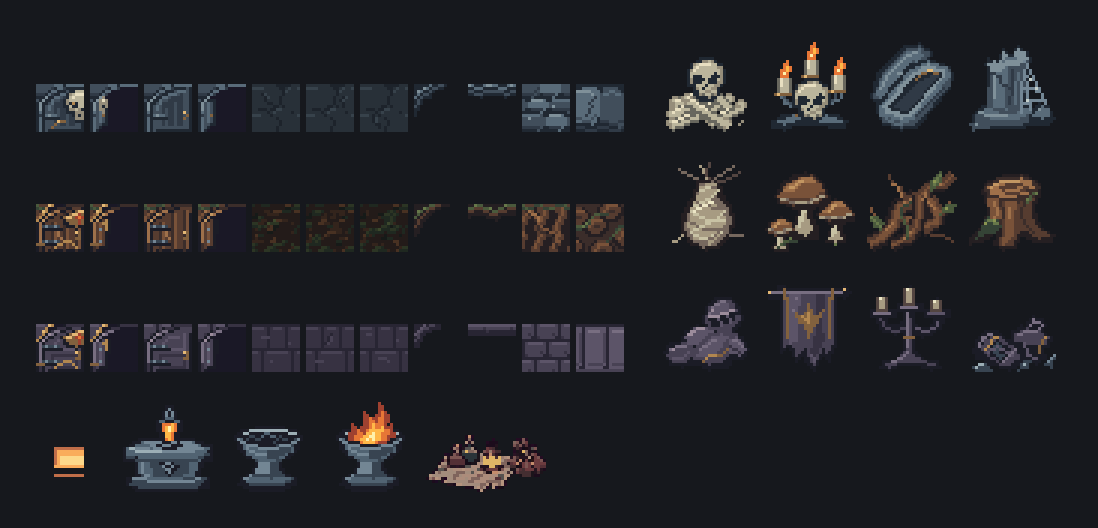
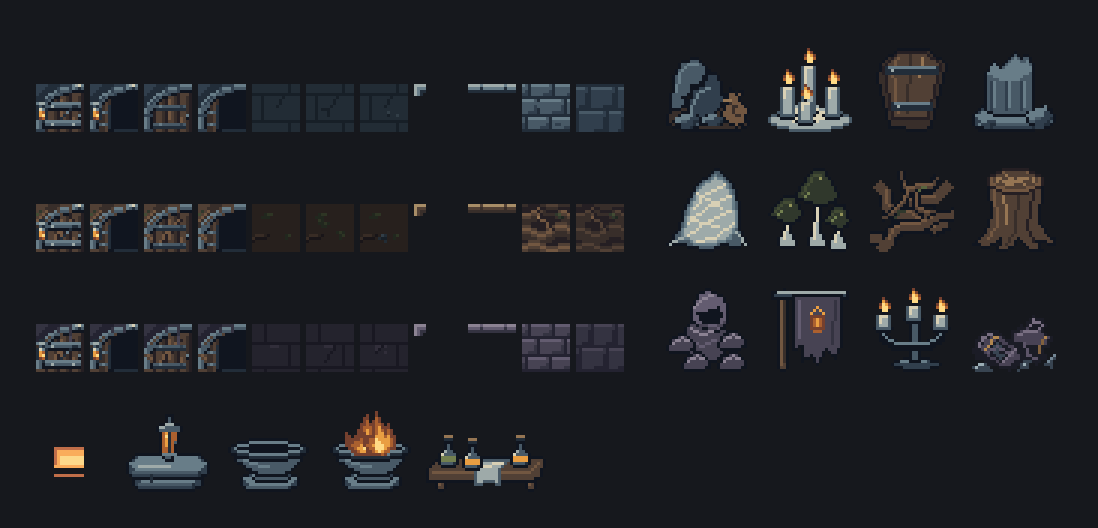
content: 등불지기 개발 7일차 글, 표지·등장인물·에셋 모음을 새 그림으로

diff --git a/src/posts/devlog-day7.md b/src/posts/devlog-day7.md
@@ -1,0 +1,48 @@
+---
+title: "등불지기 개발 7일차 — 그림 전체를 한 그림체로"
+description: 기술 이름을 세계관에 맞게, 게임 그림 전체 다시 만들기, 기술 정리, 치명타를 강화로
+date: 2026-11-24
+---
+
+[6일차](/blog/devlog-day6/)에 기술이 서른 개까지 늘었고, 7일차에는 이름과 그림을 세계관에 맞게 다시 정리했어요. 게임에 나오는 그림을 거의 전부 새로 바꿨어요.
+
+## 1. 기술 이름을 세계관에 맞게
+
+신, 뼈, 처형, 판타지 마법 같은 낱말이 세계관 규칙과 부딪혀서 이름을 바꿨어요. 효과는 그대로예요.
+
+- 액티브 종류: 물리 · 마법 · 지원 → **연장 · 불 · 지킴**
+- 번개 지팡이 → 길잡이 빛, 뼈 부메랑 → 굽은 갈고리, 별똥 → 풍등, 순간이동 → 빛 건너기, 기도 → 묵념
+- 뼈 창 → 상여 장대, 처형 → 관목수 도끼, 서리 등잔 → 푸른 등잔, 저주 낙인 → 그을음 표식, 금빛 가호 → 요령
+- 사슬 → 하관 사슬, 도깨비불 → 따르는 불씨
+- 패시브: 영혼 흡수 → 빌린 온기, 보스 사냥꾼 → 늦은 장례
+
+## 2. 그림 전체를 한 그림체로
+
+그동안 여러 번에 나눠 만든 그림이라 모양이 조금씩 달랐는데, 한 기준에 맞춰 다시 뽑았어요.
+
+- 기술 · 패시브 아이콘, 강화 · 마을 · 줍는 물건 아이콘을 32×32 시트로 다시
+- 투사체 · 기술 효과 · 적 공격 그림 154장을 바뀐 기술 이름대로 다시 그림
+- 주인공 · 적 11종 · 보스 3: 주인공과 꺼진 등불지기, 3구역 보스의 후드를 같은 보라색으로
+- 던전 · 마을 타일과 소품, 화면 UI 틀, 타이틀 그림
+- 마을 아이콘 줄의 버튼 틀을 빼서 톱니바퀴와 모양을 맞춤
+
+![주인공과 적, 보스 (새 그림)](/games/lanternkeeper/art/gallery_characters.webp)
+
+![기술 · 강화 · 마을 아이콘 (새 그림)](/games/lanternkeeper/art/gallery_items.webp)
+
+## 3. 기술 정리
+
+- **붉은 실**은 지웠어요
+- **유령 까마귀**는 **길 밝힘**으로: 등불이 번쩍여 벽 너머까지 밝히고, 그 안의 길을 미니맵에 그리고 적을 잠깐 드러내요
+- 등불 결계는 이름을 **빛 울타리**로
+- 6일차에 미뤄 둔 해골 소환과 미끼 허수아비는 세계관에 맞지 않아 기획에서 지웠어요
+- 그래서 액티브는 27종, 기본 공격까지 기술 29종이에요. 저장된 빌드에 없어진 기술이 있으면 그 칸은 비어요
+
+## 4. 치명타 확률을 강화로
+
+- 치명타 확률은 패시브에서 빼고, 제단 강화의 열 번째 항목으로 옮겼어요. 단계마다 조금씩 올라가요
+- 패시브는 8종이 됐고, 새로 시작하면 기본 패시브는 빛 반경+와 빌린 온기예요
+
+모두 빌드 18에 들어 있어요. 그림이 한꺼번에 바뀌어서, 해 보고 어색하거나 알아보기 힘든 그림이 있으면 알려 주세요. 지금 빌드는 [여기](/games/lanternkeeper/play/)서 바로 할 수 있고, 느낀 점은 [여기](/about/#contact)로 알려 주세요.
+
+게임 개발은 Claude Code와 함께 하고, 에셋 이미지는 Codex와 힉스필드로 만들고 있어요.

diff --git a/src/posts/devlog-day6.md b/src/posts/devlog-day6.md
@@ -69,6 +69,6 @@ date: 2026-11-23
 - 앱 안 브라우저(인스타그램 같은 앱에서 연 링크)나 홈 화면에 추가한 앱에서는 구글 로그인이 안 되고, 그렇다는 안내가 나와요
 - 받는 정보와 지우는 방법은 [개인정보처리방침](/games/lanternkeeper/privacy/)에 적어 두었어요
 
-1~4번은 빌드 14, 5·6번은 빌드 15, 7번은 빌드 16, 8번은 빌드 17에 들어 있어요. 막기·무적 같은 새 기술의 자세한 효과와 수치는 아직 더 봐야 해서, 써 보고 이상한 점을 알려 주시면 큰 도움이 돼요. 지금 빌드는 [여기](/games/lanternkeeper/play/)서 바로 할 수 있고, 느낀 점은 [여기](/about/#contact)로 알려 주세요.
+1~4번은 빌드 14, 5·6번은 빌드 15, 7번은 빌드 16, 8번은 빌드 17에 들어 있어요.
 
 게임 개발은 Claude Code와 함께 하고, 에셋 이미지는 Codex와 힉스필드로 만들고 있어요.
